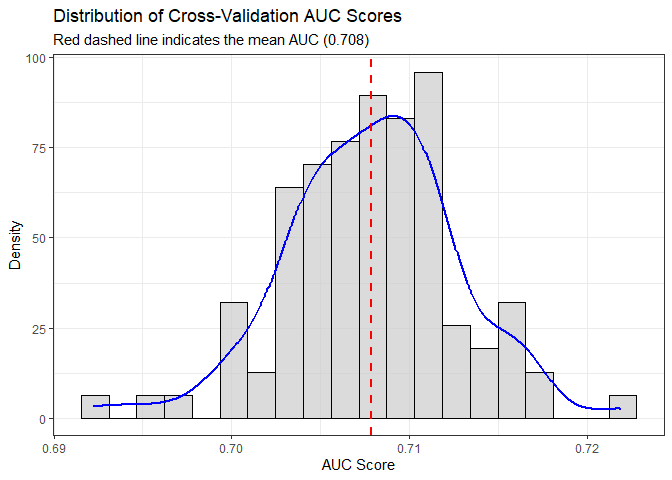
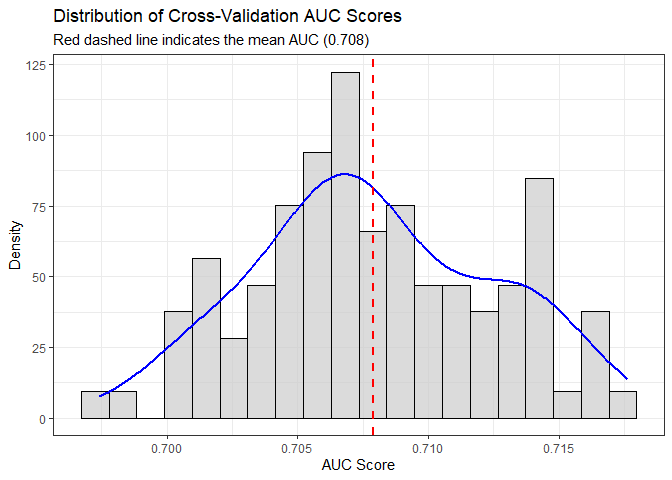
add update

diff --git a/README.md b/README.md
@@ -536,9 +536,15 @@ auc_original <- test_model_auc(
   background_data = as.data.frame(background_points),
   env_rasters = env_rasters,
   longitude = "x",
-  latitude = "y",
-  k = 5,
-  n_repeats = 20
+  latitude = "y", 
+  k = 5, 
+  n_repeats = 20,
+  maxent_args = c("linear=true", 
+                  "quadratic=true", 
+                  "product=false",
+                  "threshold=false", 
+                  "hinge=false", 
+                  "doclamp=true")
 )
 #> Starting 20 repetitions of 5-fold cross-validation...
 #>   - Repetition 1 of 20...
@@ -570,7 +576,7 @@ auc_original
 #> 
 #> Summary of AUC Scores:
 #>   Mean_AUC SD_AUC Median_AUC Min_AUC Max_AUC
-#> 1    0.708  0.005      0.708   0.692   0.722
+#> 1    0.708  0.005      0.707   0.697   0.718
 #> 
 #> To see the distribution of AUC scores, run plot(your_results_object).
 
@@ -586,9 +592,15 @@ auc_thinned <- test_model_auc(
   background_data = as.data.frame(background_points),
   env_rasters = env_rasters,
   longitude = "x",
-  latitude = "y",
-  k = 5,
-  n_repeats = 20
+  latitude = "y", 
+  k = 5, 
+  n_repeats = 20,
+  maxent_args = c("linear=true", 
+                  "quadratic=true", 
+                  "product=false",
+                  "threshold=false", 
+                  "hinge=false", 
+                  "doclamp=true")
 )
 #> Starting 20 repetitions of 5-fold cross-validation...
 #>   - Repetition 1 of 20...
@@ -620,7 +632,7 @@ auc_thinned
 #> 
 #> Summary of AUC Scores:
 #>   Mean_AUC SD_AUC Median_AUC Min_AUC Max_AUC
-#> 1    0.713  0.006      0.713   0.699   0.728
+#> 1    0.713  0.006      0.712   0.702   0.726
 #> 
 #> To see the distribution of AUC scores, run plot(your_results_object).
 
@@ -638,13 +650,13 @@ auc_ttest
 #>  Welch Two Sample t-test
 #> 
 #> data:  auc_original$all_auc_scores and auc_thinned$all_auc_scores
-#> t = -7.1925, df = 194.7, p-value = 1.336e-11
+#> t = -6.9145, df = 189.01, p-value = 7.026e-11
 #> alternative hypothesis: true difference in means is not equal to 0
 #> 95 percent confidence interval:
-#>  -0.006757891 -0.003849338
+#>  -0.006521696 -0.003626568
 #> sample estimates:
 #> mean of x mean of y 
-#> 0.7078352 0.7131388
+#> 0.7078872 0.7129613
 
 # --- 5. Visualize the Comparison ---
 # Combine results into a data frame for plotting
